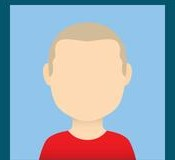
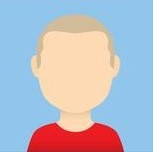
wip

Changed region(s): [[0.0, 0.0, 1.0, 1.0], [0.183, 0.0789, 0.8105, 0.7105], [0.1569, 0.6842, 0.8366, 1.0]]

diff --git a/index.html b/index.html
@@ -4,6 +4,7 @@
     <meta charset="utf-8">
     <title>Boolzapp</title>
     <link rel="stylesheet" href="css/style.css">
+    <link rel="stylesheet" href="https://cdnjs.cloudflare.com/ajax/libs/font-awesome/5.11.2/css/all.css" integrity="sha256-46qynGAkLSFpVbEBog43gvNhfrOj+BmwXdxFgVK/Kvc=" crossorigin="anonymous" />
     <script src="https://ajax.googleapis.com/ajax/libs/jquery/3.4.1/jquery.min.js"></script>
   </head>
   <body>
@@ -11,7 +12,12 @@
     <div class="wrapper">
       <div class="side-name">
         <div class="il-mio-profilo">
-          <img src="" alt="">
+          <img src="img/colorful-vector-avatars-uno-uomo.jpg" alt="">
+          <div class="icon-profile">
+            <i class="fas fa-circle-notch"></i>
+            <i class="fas fa-comment-alt"></i>
+            <i class="fas fa-ellipsis-v"></i>
+          </div>
 
         </div>
 

diff --git a/css/style.css b/css/style.css
@@ -27,5 +27,21 @@ header {
    height: 100%;
  }
  .il-mio-profilo{
-
+   height: 75px;
+   background-color: lightgrey;
+   display: flex;
+   justify-content: space-between;
+   align-items: center;
  }
+  .il-mio-profilo img{
+    border-radius: 100%;
+    width: 50px;
+    margin: 10px;
+  }
+  .icon-profile .fa-circle-notch,
+  .fa-comment-alt,
+  .fa-ellipsis-v{
+    font-size: 25px;
+    margin: 10px;
+    color: grey;
+  }
